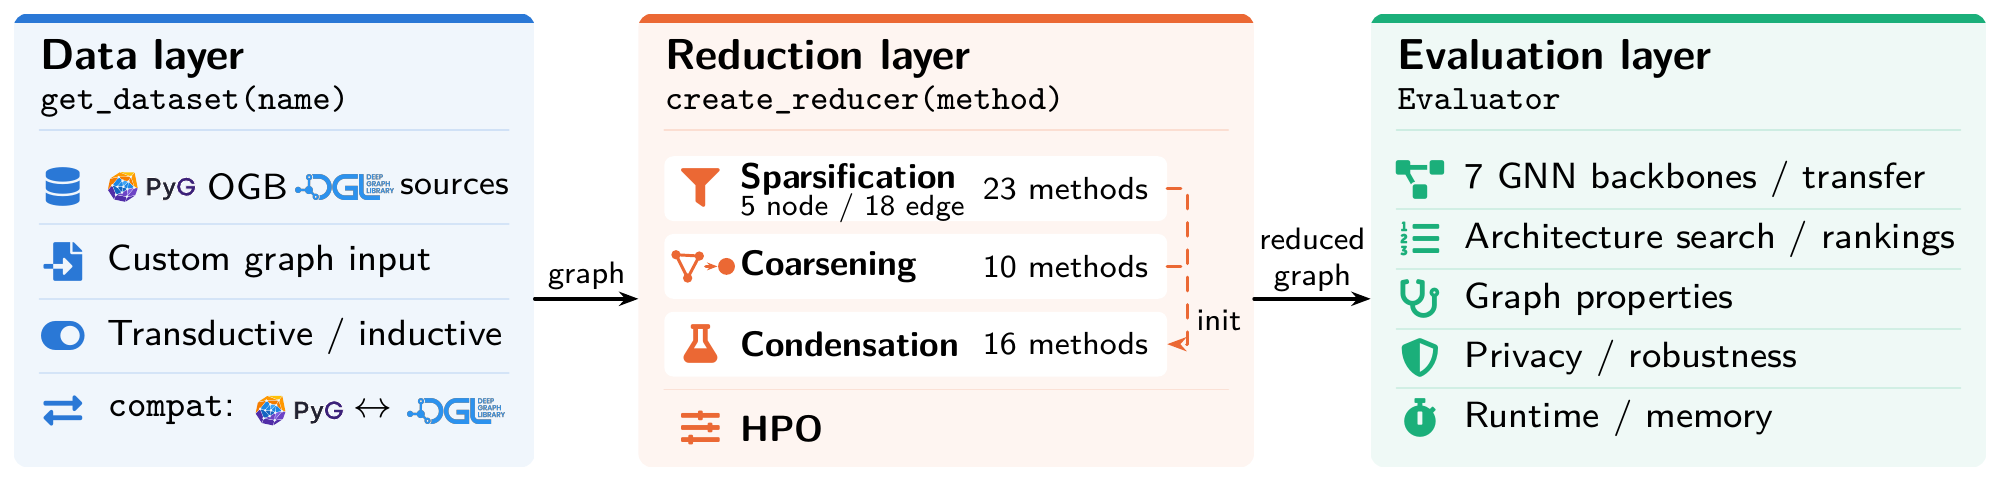
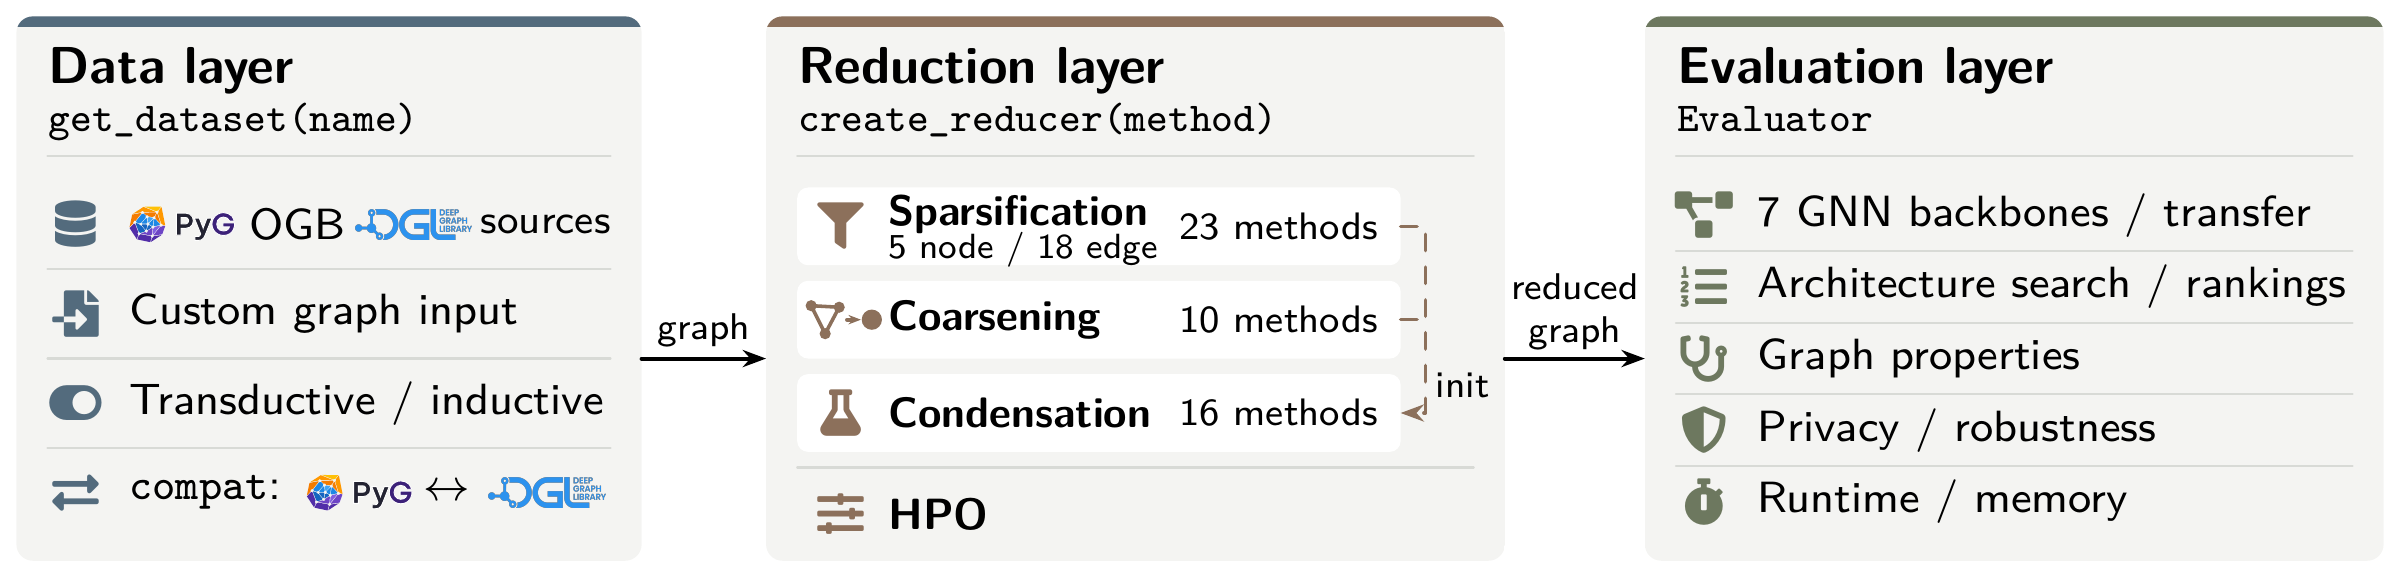
Use a restrained neutral palette for Figure 1

diff --git a/figures/figure1_architecture.tex b/figures/figure1_architecture.tex
@@ -1,18 +1,19 @@
 % Native vector artwork; service icons use Font Awesome 5.
 % Framework wordmarks are official assets in figures/logos (see logos/README.md).
 % Keep the diagram within the JMLR text width (15.24 cm).
-% Color does one job: layer identity. The three hues are slots 1-3 of a categorical
-% palette validated for colorblind and normal-vision separation. All text uses neutral
-% ink; the hue appears only on marks (accent strip, icons, connectors, panel wash).
+% Muted slate, umber, and olive identify layers on a shared neutral background.
+% Reserve color for accent strips, icons, and reduction connectors; keep text black.
 \begingroup%
 \IfFileExists{figures/logos/pyg.pdf}{%
   \def\gsLogoPath{figures/logos}%
 }{%
   \def\gsLogoPath{logos}%
 }%
-\definecolor{gsData}{HTML}{2A78D6}%
-\definecolor{gsReduce}{HTML}{EB6834}%
-\definecolor{gsEval}{HTML}{1BAF7A}%
+\definecolor{gsData}{HTML}{536B7D}%
+\definecolor{gsReduce}{HTML}{8C705B}%
+\definecolor{gsEval}{HTML}{6D785F}%
+\definecolor{gsPanel}{HTML}{F4F4F2}%
+\definecolor{gsRule}{HTML}{D8DAD6}%
 \definecolor{gsInk}{HTML}{000000}%
 \begin{tikzpicture}[
   x=1cm, y=1cm,
@@ -36,14 +37,14 @@
     \fill (.19,0) circle[radius=.065];
   }},
 ]
-% Panels: a light wash of the layer hue with a 2 pt accent strip on top; no outlines.
+% Panels: a shared light gray with a muted 2 pt accent strip on top; no outlines.
 \foreach \xl/\xr/\c in {0/4.02/gsData,4.82/9.57/gsReduce,10.47/15.22/gsEval} {
   \begin{scope}
     \clip[rounded corners=3pt] (\xl,0) rectangle (\xr,3.5);
-    \fill[\c!7] (\xl,0) rectangle (\xr,3.5);
+    \fill[gsPanel] (\xl,0) rectangle (\xr,3.5);
     \fill[\c] (\xl,3.43) rectangle (\xr,3.5);
   \end{scope}
-  \draw[\c!22,line width=.4pt] (\xl+.2,2.6) -- (\xr-.2,2.6);
+  \draw[gsRule,line width=.4pt] (\xl+.2,2.6) -- (\xr-.2,2.6);
 }
 \node[title] at (.2,3.07) {Data layer};
 \node[api] at (.2,2.76) {get\_dataset(name)};
@@ -54,7 +55,7 @@
 
 % Data services: one pictogram per row on a shared grid.
 \foreach \yy in {1.875,1.3,.725} {
-  \draw[gsData!20,line width=.4pt] (.2,\yy) -- (3.82,\yy);
+  \draw[gsRule,line width=.4pt] (.2,\yy) -- (3.82,\yy);
 }
 \node[ico,text=gsData] at (.38,2.1625) {\faIcon{database}};
 % Official wordmarks replace framework names; retain their original colors.
@@ -93,13 +94,13 @@
 \node[flowlabel,anchor=west] at (9.12,1.13) {init};
 
 % Optional method-hyperparameter search.
-\draw[gsReduce!20,line width=.4pt] (5.02,.60) -- (9.37,.60);
+\draw[gsRule,line width=.4pt] (5.02,.60) -- (9.37,.60);
 \node[ico,text=gsReduce] at (5.30,.30) {\faIcon{sliders-h}};
 \node[rowtext] at (5.60,.30) {\textbf{HPO}};
 
 % Evaluation tasks: one pictogram per row on a shared grid.
 \foreach \yy in {1.99,1.53,1.07,.61} {
-  \draw[gsEval!20,line width=.4pt] (10.67,\yy) -- (15.02,\yy);
+  \draw[gsRule,line width=.4pt] (10.67,\yy) -- (15.02,\yy);
 }
 \node[ico,text=gsEval] at (10.85,2.22) {\faIcon{project-diagram}};
 \node[rowtext] at (11.19,2.22) {7 GNN backbones / transfer};
